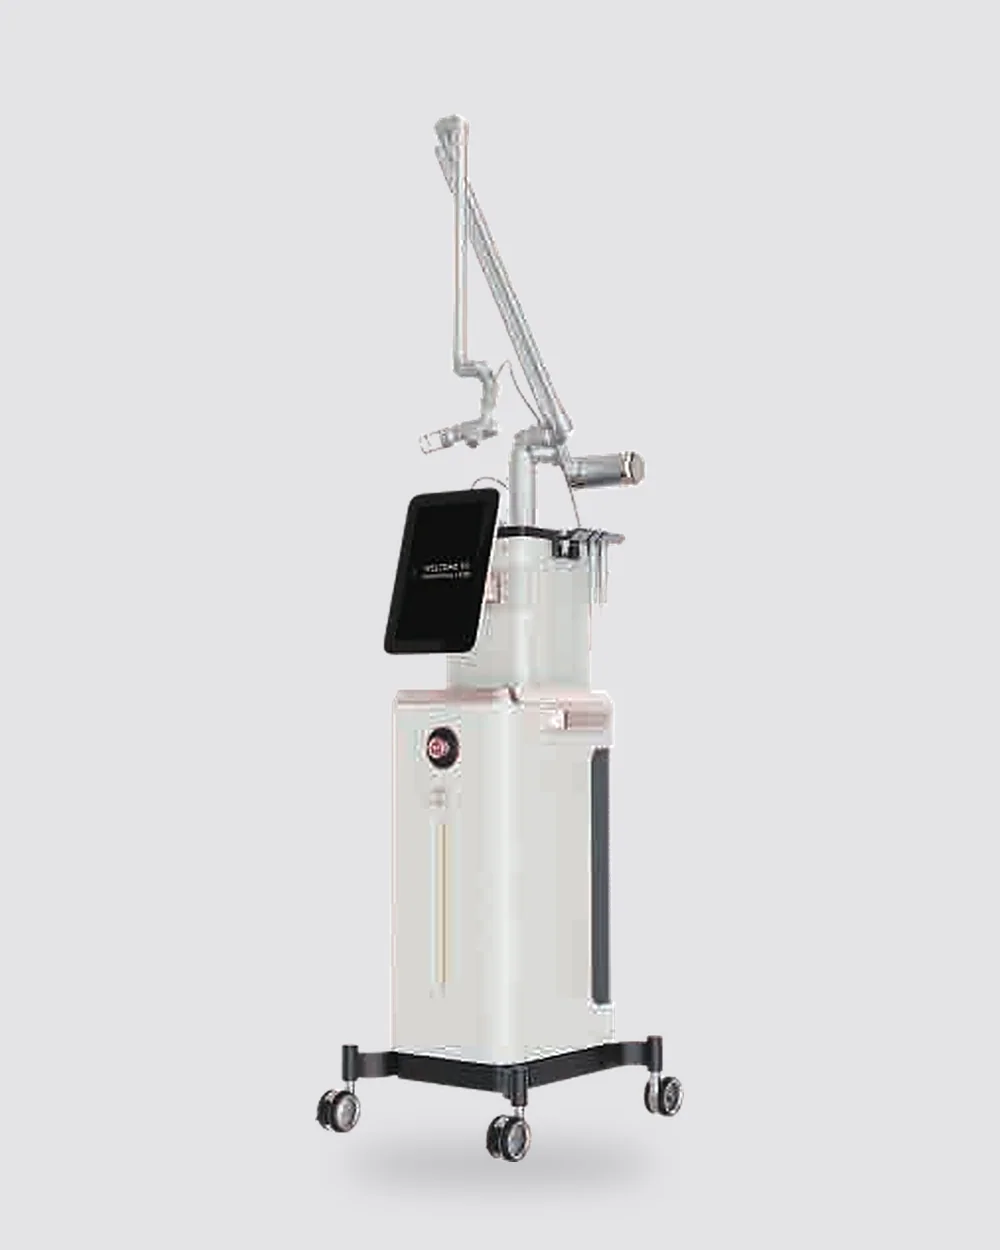
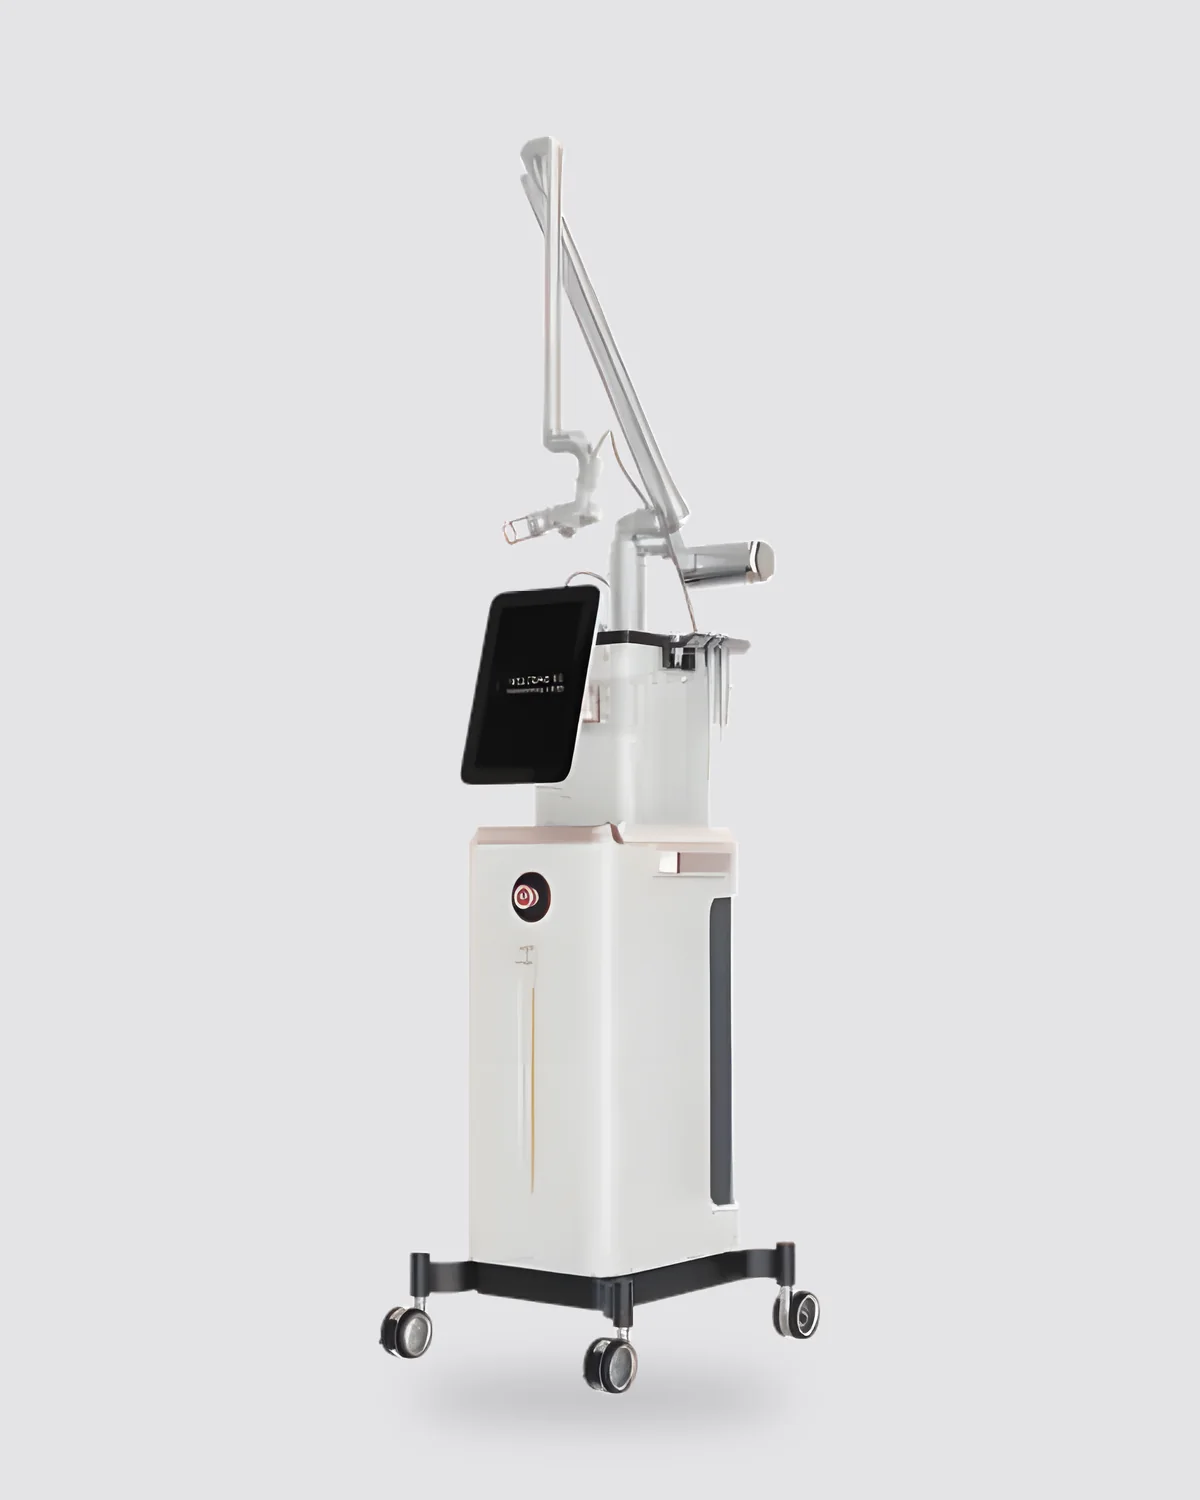
feat: fotos de los 13 equipos ampliadas 4x con IA (Upscayl, Real-ESRGAN)
Las 11 fotos que vienen del PDF y la silla Magshape se amplían 4x con el
modelo upscayl-standard-4x (fiel, sin inventar formas) y las dos de la web
de SANHE 2x; todas se recomponen a 1200x1500 para pantallas Retina.

diff --git a/js/equipos.js b/js/equipos.js
@@ -13,7 +13,7 @@ window.CATEGORIAS = {
 
 window.EQUIPOS = {
   hidl: {
-    no: 'No. 01', name: 'HIDL-3000', cat: 'depilacion', img: 'img/eq-hidl.webp',
+    no: 'No. 01', name: 'HIDL-3000', cat: 'depilacion', img: 'img/eq-hidl.webp?v=3',
     tech: 'Diodo · 755/808/1064 nm', techLong: 'Láser de diodo · 755 + 808 + 1064 nm',
     desc: 'Láser de diodo con tres longitudes de onda en un mismo equipo para depilación en todas las zonas, con sistema Android, análisis del vello y refrigeración por contacto de 360°.',
     ventajas: ['Tecnología de colimación FAC (eje rápido)', 'Sistema Android con gestión de clientes (CRM)', 'Sistema de análisis del vello', 'Refrigeración por contacto de 360°'],
@@ -27,7 +27,7 @@ window.EQUIPOS = {
     aplicadores: 'Cuatro puntas intercambiables: 12,5×14,5 mm, 13,5×28,5 mm, 13,5×38,5 mm y redonda de 8,25 mm.',
   },
   dpl: {
-    no: 'No. 02', name: 'Spectrum DPL Plus', cat: 'depilacion', img: 'img/eq-dpl.webp?v=2',
+    no: 'No. 02', name: 'Spectrum DPL Plus', cat: 'depilacion', img: 'img/eq-dpl.webp?v=3',
     tech: 'DPL · 420–1200 nm', techLong: 'Luz DPL · depilación + filtros de cuidado de la piel',
     desc: 'Plataforma DPL para depilación (560–950 nm) y cuidado de la piel con filtros (420–1200 nm), con lámpara importada de Alemania y técnica en movimiento.',
     ventajas: ['Adaptadores de spot de cambio rápido', 'Núcleo de luz importado de Alemania', 'Fuente de alimentación OPT', 'Varias longitudes de onda para todo tipo de pieles', 'Tecnología in-motion'],
@@ -40,7 +40,7 @@ window.EQUIPOS = {
     aplicadores: 'Pieza de mano DPL con nueve filtros intercambiables.',
   },
   pico3: {
-    no: 'No. 03', name: 'Pico 3 en 1', cat: 'laser', img: 'img/eq-pico3.webp',
+    no: 'No. 03', name: 'Pico 3 en 1', cat: 'laser', img: 'img/eq-pico3.webp?v=3',
     tech: 'Nd:YAG · 3 modos', techLong: 'Picosegundo + pulso largo + Genesis · 1064 / 532 nm',
     desc: 'Tres modos en un mismo equipo Nd:YAG: picosegundo para tatuajes y pigmento, pulso largo para depilación y lesiones vasculares, y Genesis para el rejuvenecimiento de la piel.',
     ventajas: ['Depilación', 'Lesiones vasculares', 'Rejuvenecimiento de la piel', 'Eliminación de tatuajes', 'Doble sistema de refrigeración'],
@@ -54,7 +54,7 @@ window.EQUIPOS = {
     aplicadores: 'Piezas de mano de 650 nm (tinta verde) y 585 nm (tinta roja), colimada y celular.',
   },
   pico500: {
-    no: 'No. 04', name: 'Picosecond 500 ps', cat: 'laser', img: 'img/eq-pico500.webp?v=2',
+    no: 'No. 04', name: 'Picosecond 500 ps', cat: 'laser', img: 'img/eq-pico500.webp?v=3',
     tech: 'Picosegundo · 500 ps', techLong: 'Láser de picosegundos · 1064 / 532 nm · brazo coreano',
     desc: 'Láser de picosegundos con brazo de 7 articulaciones importado de Corea, para eliminación de tatuajes, cloasma (melasma) y tratamiento de «muñeca negra» (carbon peel).',
     ventajas: ['Pulso corto de 500 ps', 'Alta frecuencia: 1–10 Hz', 'Alta precisión: spot ajustable de 2 a 10 mm', 'Brazo de 7 articulaciones importado de Corea'],
@@ -67,7 +67,7 @@ window.EQUIPOS = {
     aplicadores: 'Piezas de mano de 650 nm y 585 nm, focal (1064 y 532 nm), celular y fraccional.',
   },
   co2: {
-    no: 'No. 05', name: 'CO₂ Fraccional Metal RF', cat: 'laser', img: 'img/eq-co2.webp',
+    no: 'No. 05', name: 'CO₂ Fraccional Metal RF', cat: 'laser', img: 'img/eq-co2.webp?v=3',
     tech: 'CO₂ · 10,6 µm', techLong: 'Láser de CO₂ fraccional · tubo metálico de RF · 40 W',
     desc: 'Láser de CO₂ fraccional con tubo metálico de radiofrecuencia para rejuvenecimiento de la piel, con modos continuo, fraccional y ultra, y cabezales para tratamiento ginecológico.',
     ventajas: ['Alta potencia: 40 W', 'Modo continuo (CW)', 'Modo fraccional', 'Modo ultra'],
@@ -80,7 +80,7 @@ window.EQUIPOS = {
     aplicadores: 'Cabezal de corte, cabezal fraccional, piezas de 50 y 100 mm, cabezal vaginal y endoscopio digital.',
   },
   erbio: {
-    no: 'No. 06', name: 'Er:YAG 2940', cat: 'laser', img: 'img/eq-erbio.webp',
+    no: 'No. 06', name: 'Er:YAG 2940', cat: 'laser', img: 'img/eq-erbio.webp?v=3',
     tech: 'Er:YAG · 2940 nm', techLong: 'Láser de erbio:YAG · 2940 nm',
     desc: 'Láser de erbio para resurfacing de la piel, ligero o completo, y tratamiento de lesiones epidérmicas, dérmicas y pigmentadas benignas.',
     ventajas: ['Resurfacing ligero o completo', 'Lesiones epidérmicas y dérmicas', 'Lesiones pigmentadas benignas'],
@@ -91,7 +91,7 @@ window.EQUIPOS = {
     aplicadores: 'Piezas de mano R11 (2–3 mm), R12 (4–5 mm) y R13 (6–7 mm); pieza fraccional opcional.',
   },
   tulio: {
-    no: 'No. 07', name: 'Thulium 1927', cat: 'laser', img: 'img/eq-tulio.webp', tag: 'Nuevo',
+    no: 'No. 07', name: 'Thulium 1927', cat: 'laser', img: 'img/eq-tulio.webp?v=3', tag: 'Nuevo',
     tech: 'Tulio · 1927 nm', techLong: 'Láser de tulio · 1927 nm',
     desc: 'Láser de tulio de 1927 nm, ablativo y no ablativo, indicado para luminosidad y unificación del tono, melasma, arrugas finas, poros dilatados y textura de la piel.',
     ventajas: ['Fibra de tulio de larga duración y sin consumibles: bajo coste de mantenimiento', 'Funciones ablativa y no ablativa', 'Puntas de distintos tamaños y rodillos que ayudan a absorber el producto tras crear las zonas microtérmicas (MTZ)'],
@@ -103,7 +103,7 @@ window.EQUIPOS = {
     aplicadores: 'Pieza fraccional con puntas de 6×6, 12×12 y 20×20 mm, rodillo y pieza vaginal.',
   },
   patrixr: {
-    no: 'No. 08', name: 'PatrixR', cat: 'rf', img: 'img/eq-patrixr.webp',
+    no: 'No. 08', name: 'PatrixR', cat: 'rf', img: 'img/eq-patrixr.webp?v=3',
     tech: 'RF · 2 MHz', techLong: 'Radiofrecuencia multidimensional con microagujas · 2 MHz',
     desc: 'Equipo de radiofrecuencia multidimensional: varias profundidades y niveles de energía en una sola pasada, con control de impedancia y reconocimiento automático de puntas.',
     ventajas: ['Varias profundidades y energías en una sola pasada', 'Monitorización inteligente de la impedancia', 'Reconocimiento automático de puntas', 'Sistema Android'],
@@ -115,7 +115,7 @@ window.EQUIPOS = {
     aplicadores: 'PatrixR (resurfacing), FractionalR (corrección de la piel) e IceR (mantenimiento de la piel).',
   },
   pinxel: {
-    no: 'No. 09', name: 'Pinxel-V', cat: 'rf', img: 'img/eq-pinxel.webp',
+    no: 'No. 09', name: 'Pinxel-V', cat: 'rf', img: 'img/eq-pinxel.webp?v=3',
     tech: 'Microagujas RF', techLong: 'Microagujas con radiofrecuencia · 2 MHz',
     desc: 'Microagujas con radiofrecuencia monopolar y bipolar, con profundidad ajustable de 0,4 a 4 mm y vacío automático, que ayuda a que los activos lleguen a la dermis.',
     ventajas: ['Sistema Android con gestión de clientes (CRM)', 'Monopolar y bipolar', 'Agujas ajustables de 0,4 a 4 mm', 'Puntas aisladas y no aisladas', 'Sistema de vacío automático'],
@@ -128,8 +128,8 @@ window.EQUIPOS = {
     aplicadores: 'Aplicador de microagujas RF, aplicador fraccional RF, mango negativo (para monopolar) y mango de frío.',
   },
   magshape: {
-    no: 'No. 10', name: 'HI-EMT Magshape', cat: 'corporal', img: 'img/eq-magshape.webp',
-    extra: { img: 'img/eq-magshape-silla.webp', label: 'Silla Magshape (2 en 1)' },
+    no: 'No. 10', name: 'HI-EMT Magshape', cat: 'corporal', img: 'img/eq-magshape.webp?v=3',
+    extra: { img: 'img/eq-magshape-silla.webp?v=3', label: 'Silla Magshape (2 en 1)' },
     tech: 'HI-EMT + RF', techLong: 'Campo electromagnético de alta intensidad + radiofrecuencia · hasta 7 T',
     desc: 'Equipo HI-EMT con radiofrecuencia para tonificar el músculo y trabajar la grasa en la misma sesión, sin anestesia ni cirugía. Se combina con la silla Magshape para suelo pélvico.',
     ventajas: ['Sin anestesia ni cirugía', 'Trabaja músculo y grasa en la misma sesión', 'Tres modos: deportivo, suave y profesional', '4 aplicadores'],
@@ -141,7 +141,7 @@ window.EQUIPOS = {
     aplicadores: 'Abdomen, glúteos y muslos · muslos, brazos y piernas · silla para suelo pélvico (urología, ginecología y recuperación posparto).',
   },
   megashape: {
-    no: 'No. 11', name: 'Megashape Pro', cat: 'corporal', img: 'img/eq-megashape.webp', tag: 'Nuevo',
+    no: 'No. 11', name: 'Megashape Pro', cat: 'corporal', img: 'img/eq-megashape.webp?v=3', tag: 'Nuevo',
     tech: 'Vacío · RF · cavitación', techLong: 'Vacío + radiofrecuencia + cavitación + 940 nm',
     desc: 'Plataforma corporal que combina vacío con rodillos, radiofrecuencia multipolar y bipolar, cavitación y luz infrarroja de 940 nm para trabajar el contorno.',
     ventajas: ['Presión negativa (vacío)', 'Estimulación mecánica con rodillos', 'Lifting por radiofrecuencia', 'Cavitación para la reducción de grasa', 'Luz infrarroja de 940 nm que activa el metabolismo'],
@@ -153,7 +153,7 @@ window.EQUIPOS = {
     aplicadores: 'Rodillo de vacío, RF multipolar, RF bipolar y cavitación.',
   },
   cryo: {
-    no: 'No. 12', name: 'Cryocool 360°', cat: 'corporal', img: 'img/eq-cryo.webp',
+    no: 'No. 12', name: 'Cryocool 360°', cat: 'corporal', img: 'img/eq-cryo.webp?v=3',
     tech: 'Criolipólisis · −12 °C', techLong: 'Criolipólisis 360° · cinco aplicadores',
     desc: 'Criolipólisis de 360° con cinco aplicadores de distintos tamaños, silicona de grado médico y pantalla orientable.',
     ventajas: ['5 aplicadores', 'Pantalla táctil intuitiva', 'Superenfriamiento hasta −12 °C', 'Silicona médica segura y cómoda', 'Ángulo de pantalla ajustable', 'Filtro de algodón médico que retiene impurezas'],
@@ -165,7 +165,7 @@ window.EQUIPOS = {
     aplicadores: 'Cinco cabezales intercambiables (de 76×36×27 a 204×73×81 mm) con pantalla de 3,5" que muestra temperatura, vacío y tiempo.',
   },
   aircool: {
-    no: 'No. 13', name: 'Skin Air Cooling', cat: 'confort', img: 'img/eq-aircool.webp',
+    no: 'No. 13', name: 'Skin Air Cooling', cat: 'confort', img: 'img/eq-aircool.webp?v=3',
     tech: 'Aire frío · −30 °C', techLong: 'Enfriador de piel por aire frío',
     desc: 'Enfriador de piel por aire frío para acompañar los tratamientos láser: más confort para la clienta durante la sesión.',
     ventajas: ['Compresores importados de Alemania', 'Refrigeración a muy baja temperatura, hasta −30 °C', 'Sistema independiente de reducción de ruido', 'Soplador de alta velocidad'],

diff --git a/index.html b/index.html
@@ -419,7 +419,7 @@
     </div>
   </dialog>
 
-  <script src="js/equipos.js?v=3" defer></script>
+  <script src="js/equipos.js?v=4" defer></script>
   <script src="js/main.js?v=7" defer></script>
 </body>
 </html>
